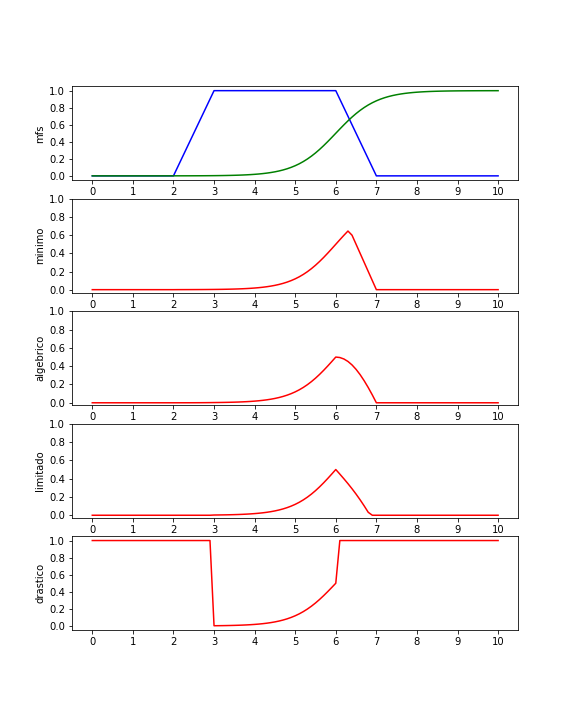
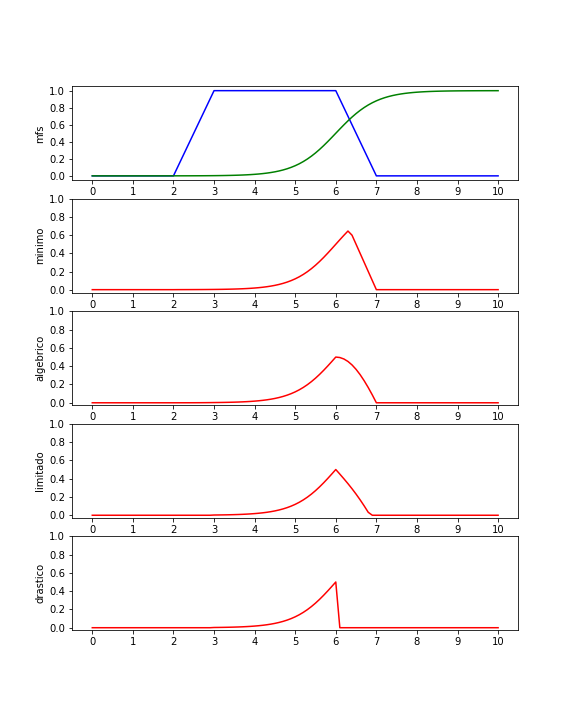
corrige metodo intersecao

diff --git a/mod1/intersecao.py b/mod1/intersecao.py
@@ -18,7 +18,7 @@ def limitado(a, b):
     return np.maximum(0, a + b - 1)
 
 def drastico(a, b):
-    mu = np.ones(shape = a.shape)
+    mu = np.zeros(shape = a.shape)
     # for i in range(len(a)):
     #     if a[i] == 1:
     #         mu[i] = b[i]
